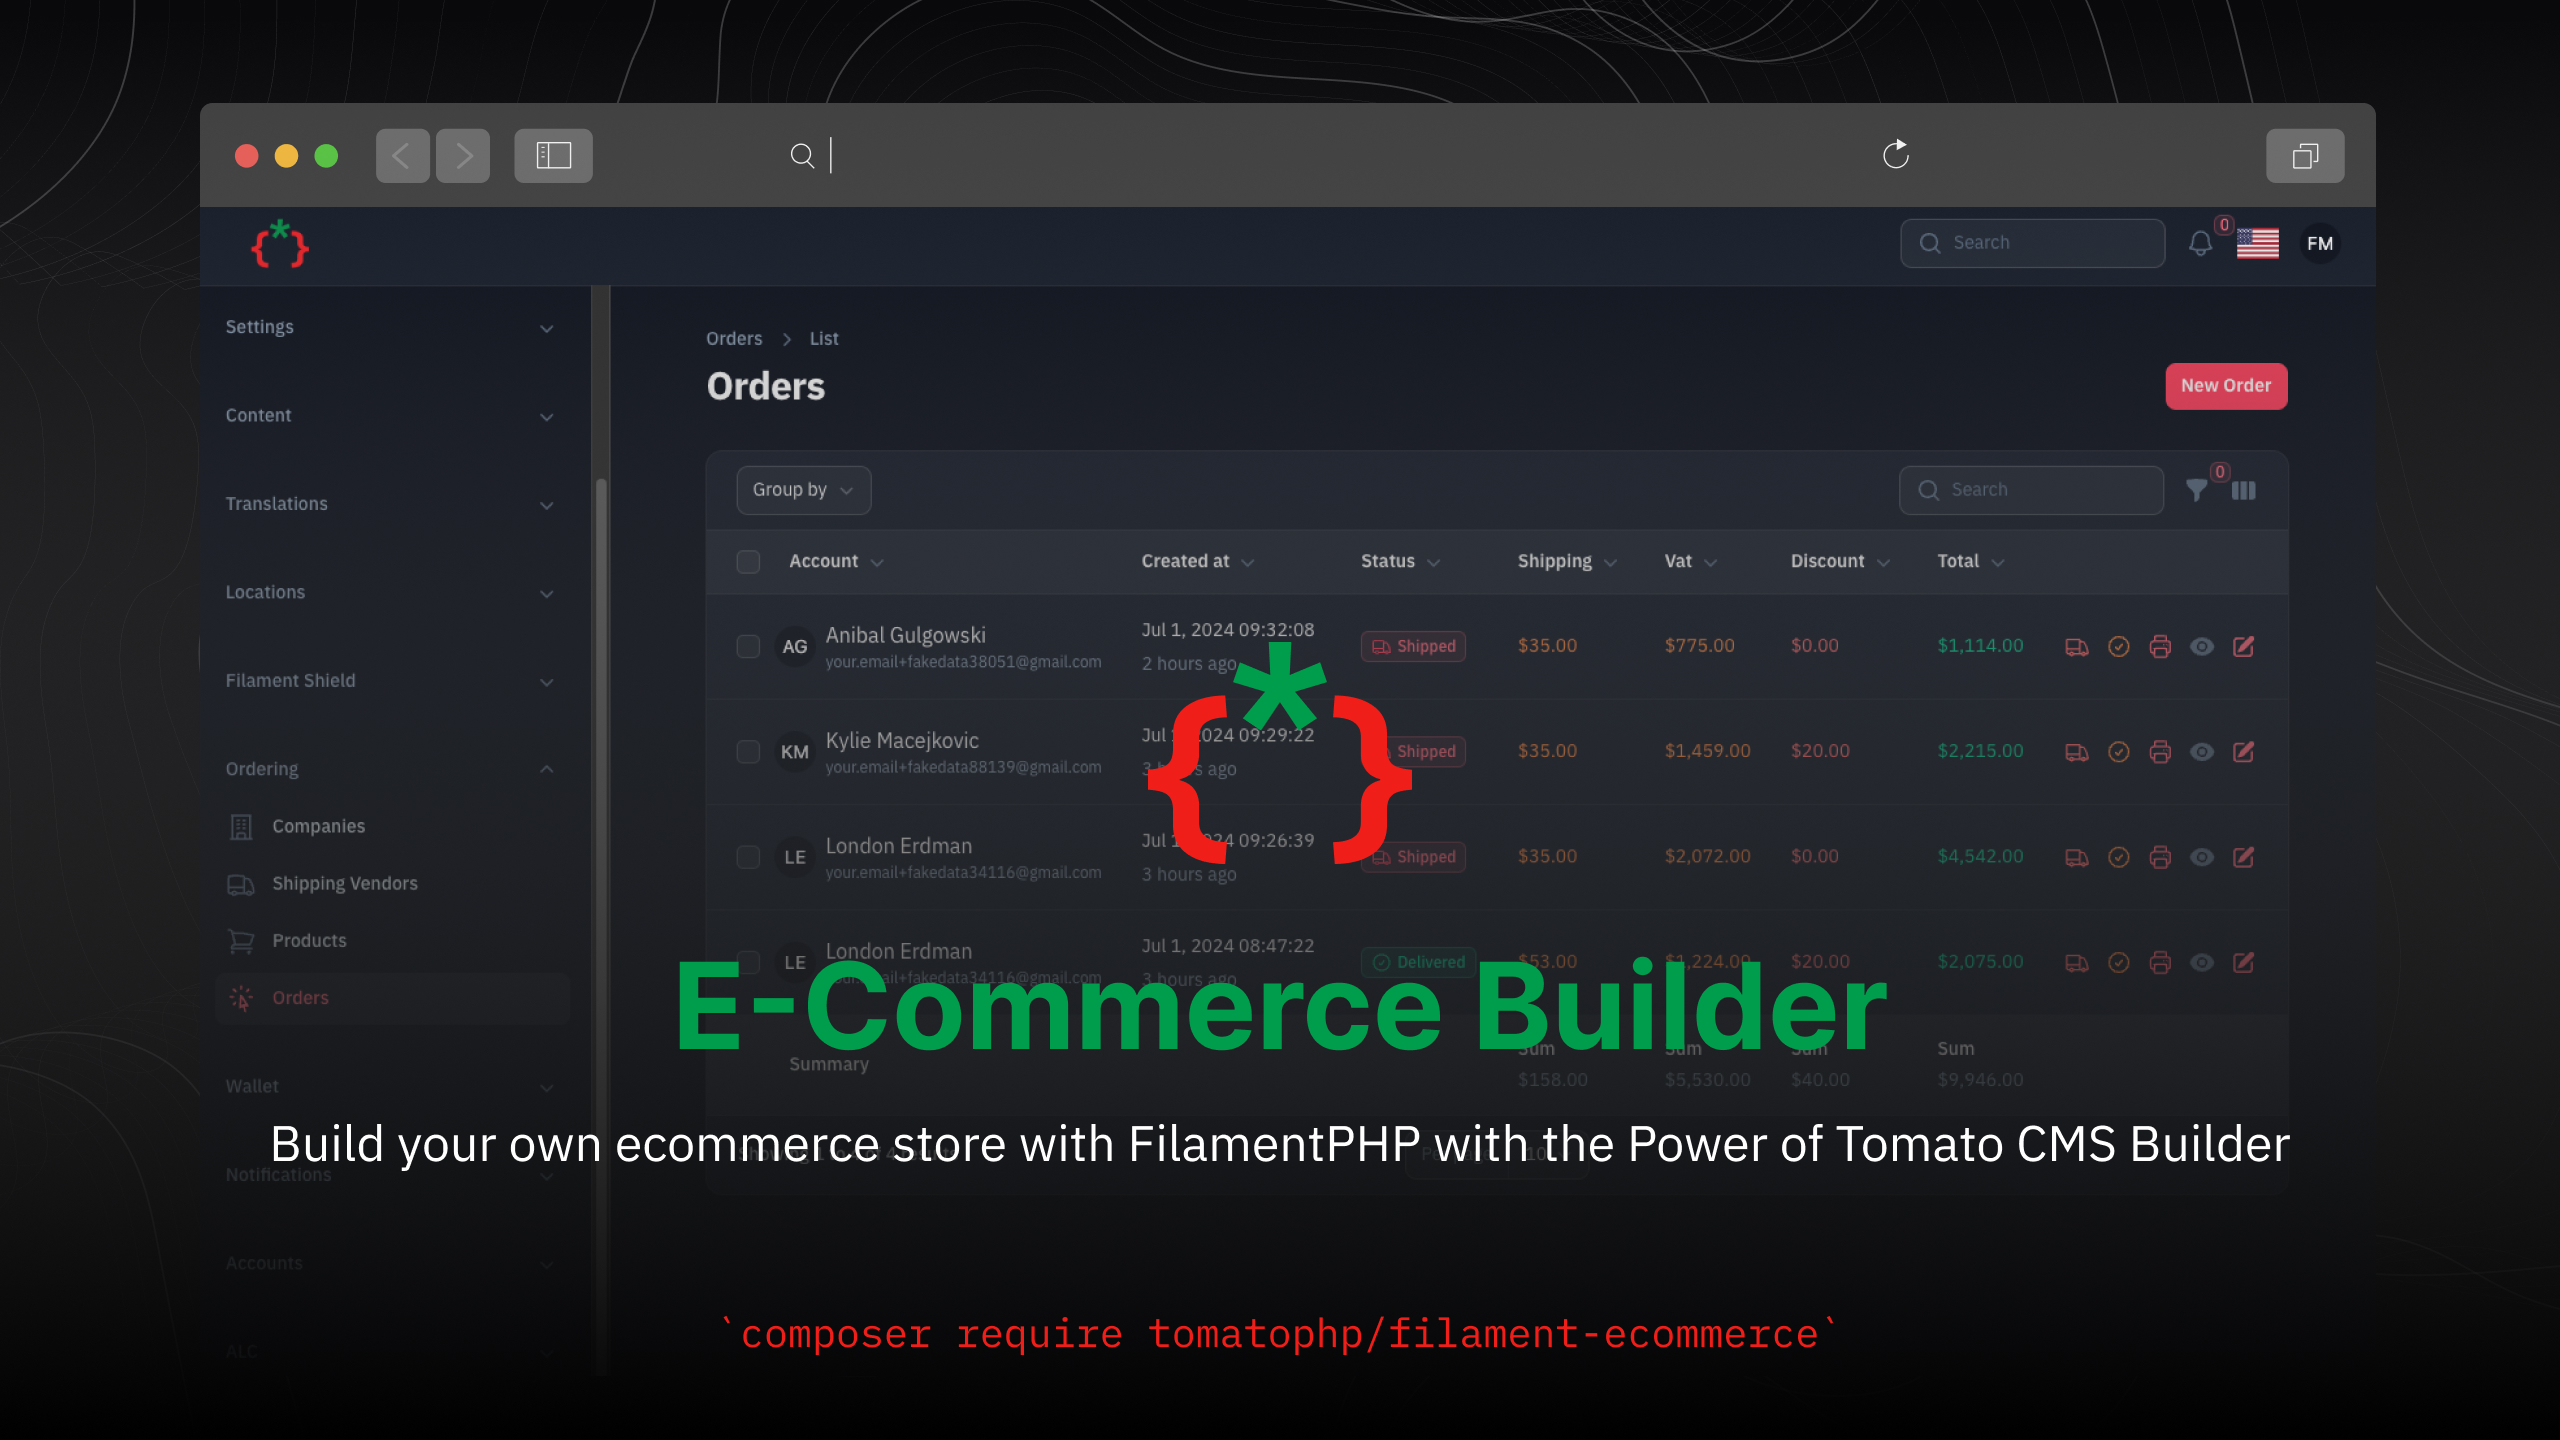
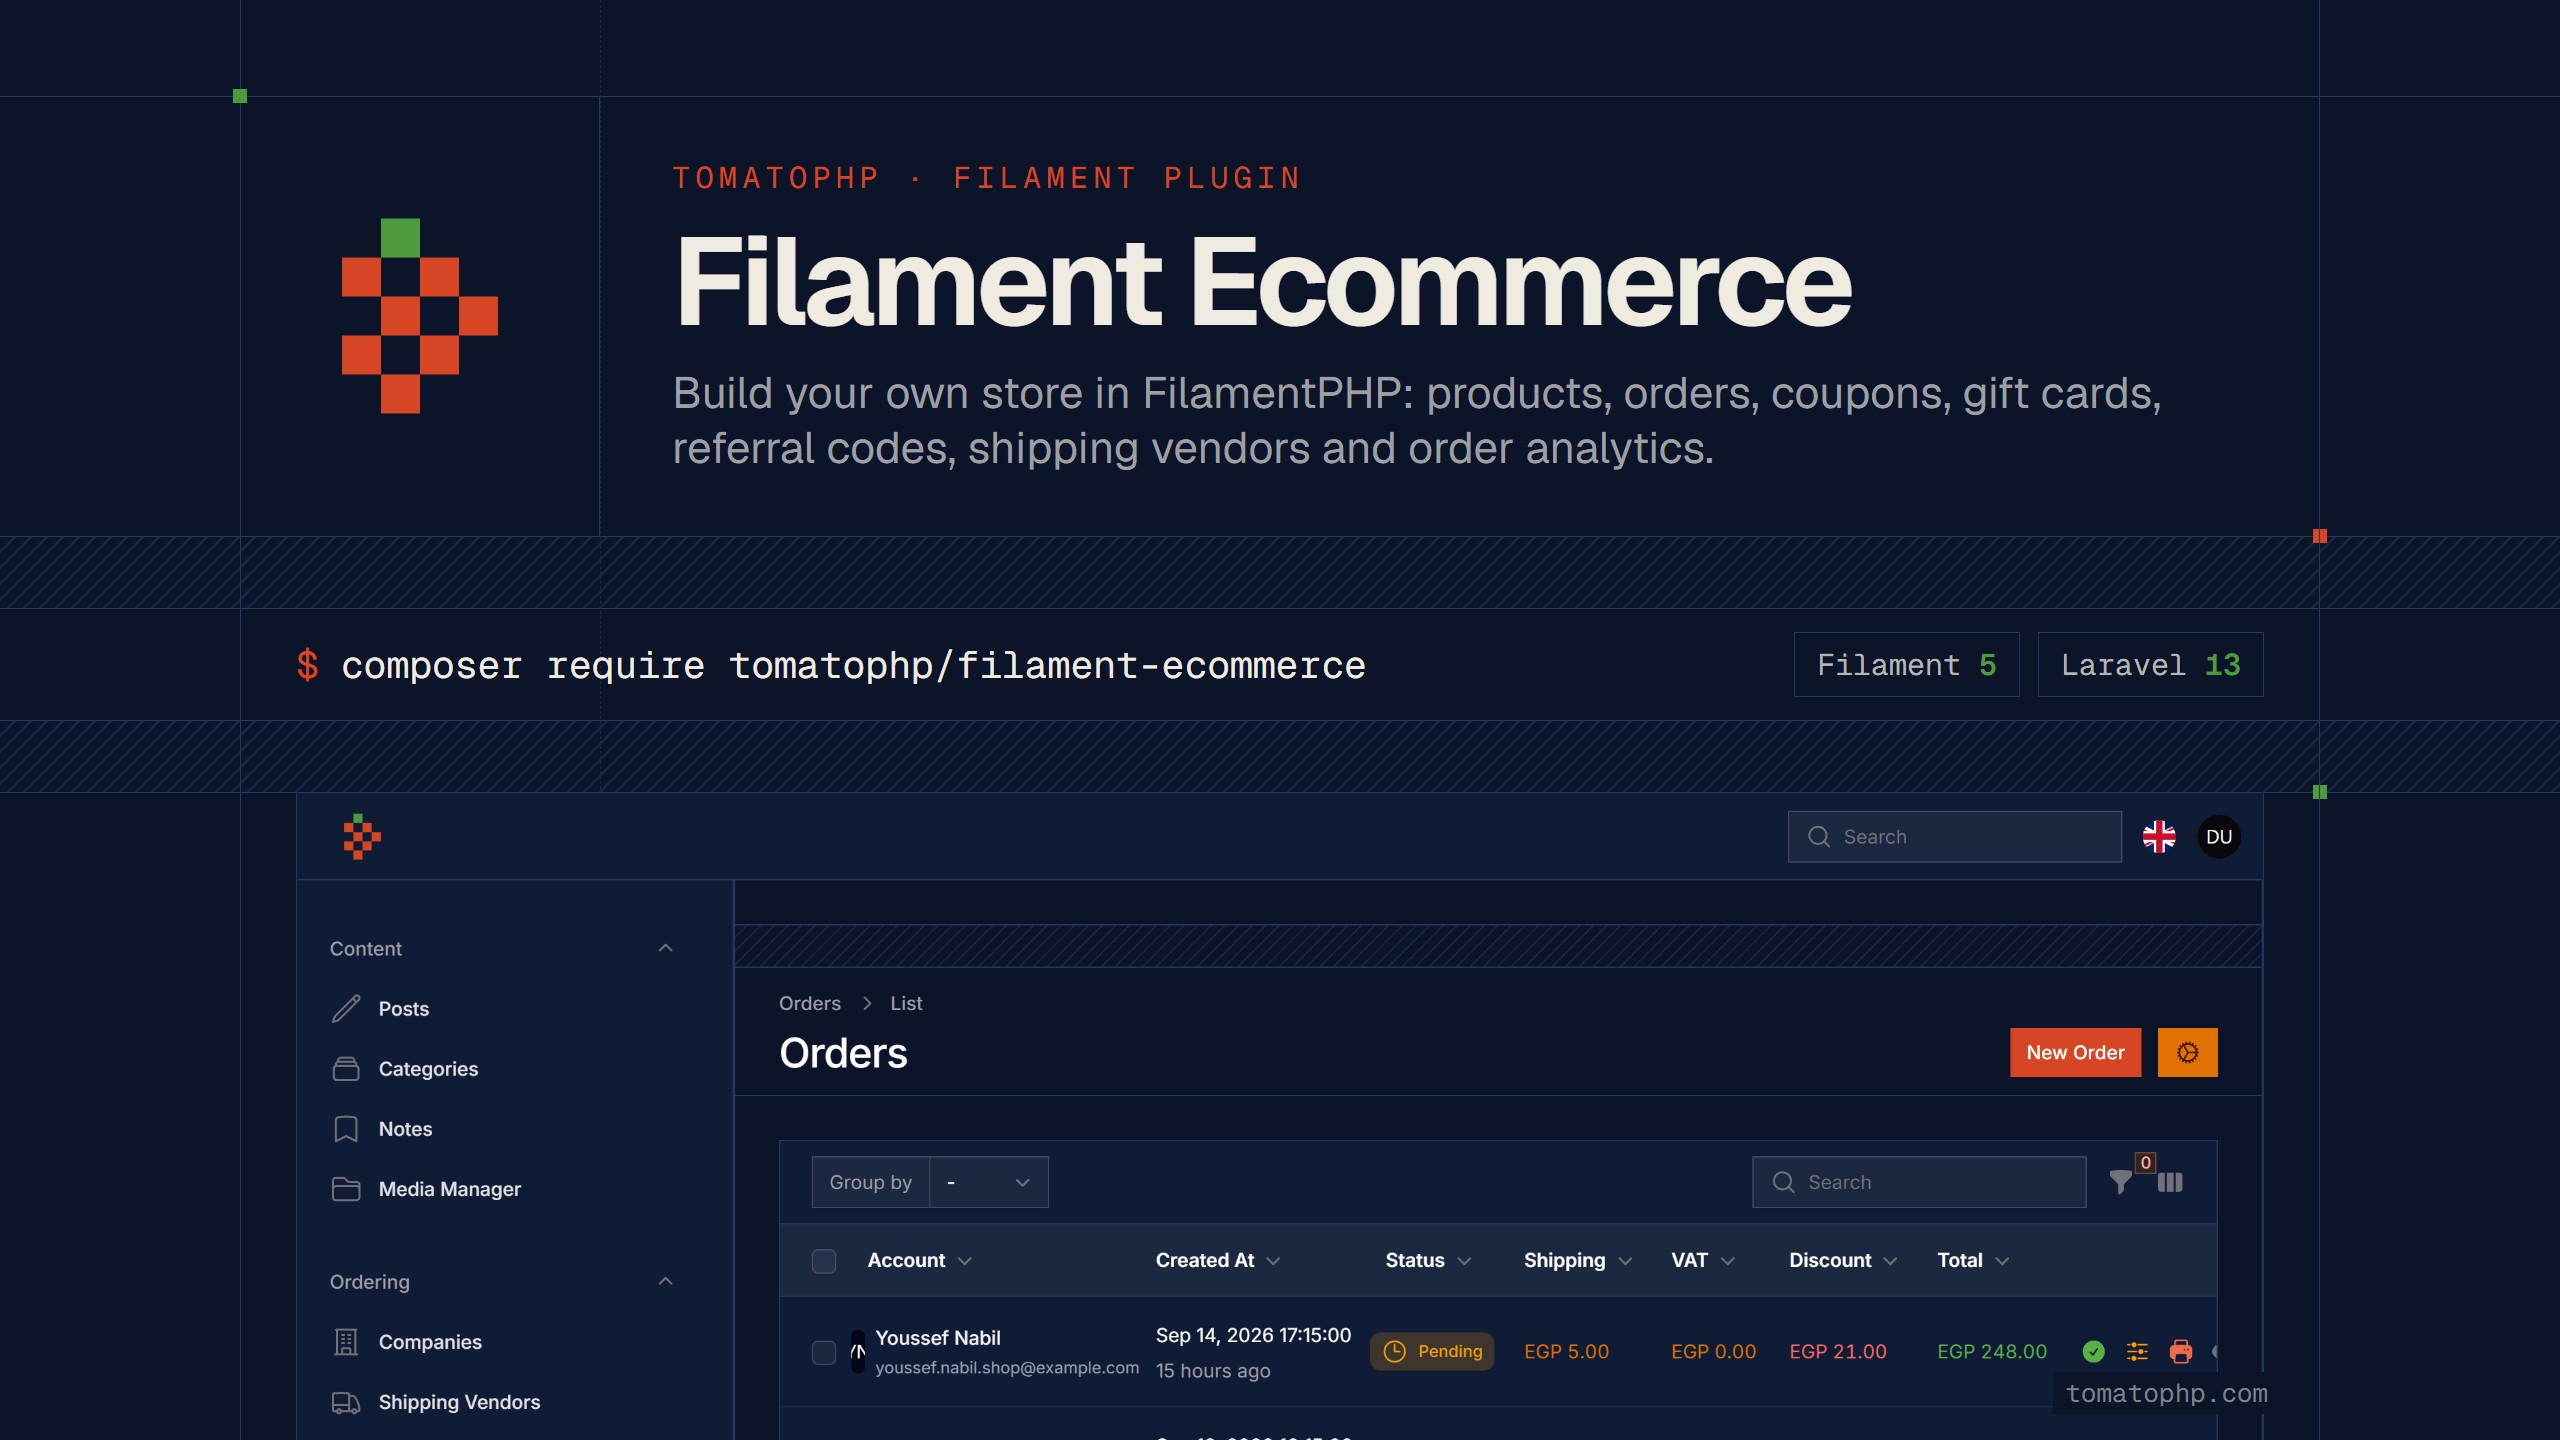
New cover and light/dark screenshots

diff --git a/README.md b/README.md
@@ -125,17 +125,20 @@ there is some feature you can disable it
 
 ## Screenshots
 
-![Branches](https://raw.githubusercontent.com/tomatophp/filament-ecommerce/master/arts/branches.png)
-![Companies](https://raw.githubusercontent.com/tomatophp/filament-ecommerce/master/arts/companies.png)
-![Edit Company](https://raw.githubusercontent.com/tomatophp/filament-ecommerce/master/arts/edit-company.png)
-![Products List](https://raw.githubusercontent.com/tomatophp/filament-ecommerce/master/arts/products.png)
-![Create Product](https://raw.githubusercontent.com/tomatophp/filament-ecommerce/master/arts/create-products.png)
-![Create Order](https://raw.githubusercontent.com/tomatophp/filament-ecommerce/master/arts/create-orders.png)
-![Order Items](https://raw.githubusercontent.com/tomatophp/filament-ecommerce/master/arts/order-items.png)
-![Orders List](https://raw.githubusercontent.com/tomatophp/filament-ecommerce/master/arts/orders.png)
-![Deliveries](https://raw.githubusercontent.com/tomatophp/filament-ecommerce/master/arts/deliveries.png)
-![Edit Shipping](https://raw.githubusercontent.com/tomatophp/filament-ecommerce/master/arts/edit-shipping-vendors.png)
-![Shipping](https://raw.githubusercontent.com/tomatophp/filament-ecommerce/master/arts/shipping-vendors.png)
+![Orders](https://raw.githubusercontent.com/tomatophp/filament-ecommerce/master/arts/orders-light.png)
+![Orders Dark](https://raw.githubusercontent.com/tomatophp/filament-ecommerce/master/arts/orders-dark.png)
+![View Order](https://raw.githubusercontent.com/tomatophp/filament-ecommerce/master/arts/view-order-light.png)
+![View Order Dark](https://raw.githubusercontent.com/tomatophp/filament-ecommerce/master/arts/view-order-dark.png)
+![Products](https://raw.githubusercontent.com/tomatophp/filament-ecommerce/master/arts/products-light.png)
+![Products Dark](https://raw.githubusercontent.com/tomatophp/filament-ecommerce/master/arts/products-dark.png)
+![Companies](https://raw.githubusercontent.com/tomatophp/filament-ecommerce/master/arts/companies-light.png)
+![Companies Dark](https://raw.githubusercontent.com/tomatophp/filament-ecommerce/master/arts/companies-dark.png)
+![Coupons](https://raw.githubusercontent.com/tomatophp/filament-ecommerce/master/arts/coupons-light.png)
+![Coupons Dark](https://raw.githubusercontent.com/tomatophp/filament-ecommerce/master/arts/coupons-dark.png)
+![Order Widgets](https://raw.githubusercontent.com/tomatophp/filament-ecommerce/master/arts/dashboard-light.png)
+![Order Widgets Dark](https://raw.githubusercontent.com/tomatophp/filament-ecommerce/master/arts/dashboard-dark.png)
+![Order Settings](https://raw.githubusercontent.com/tomatophp/filament-ecommerce/master/arts/order-settings-light.png)
+![Order Settings Dark](https://raw.githubusercontent.com/tomatophp/filament-ecommerce/master/arts/order-settings-dark.png)
 
 ## Use Coupon Service
 
